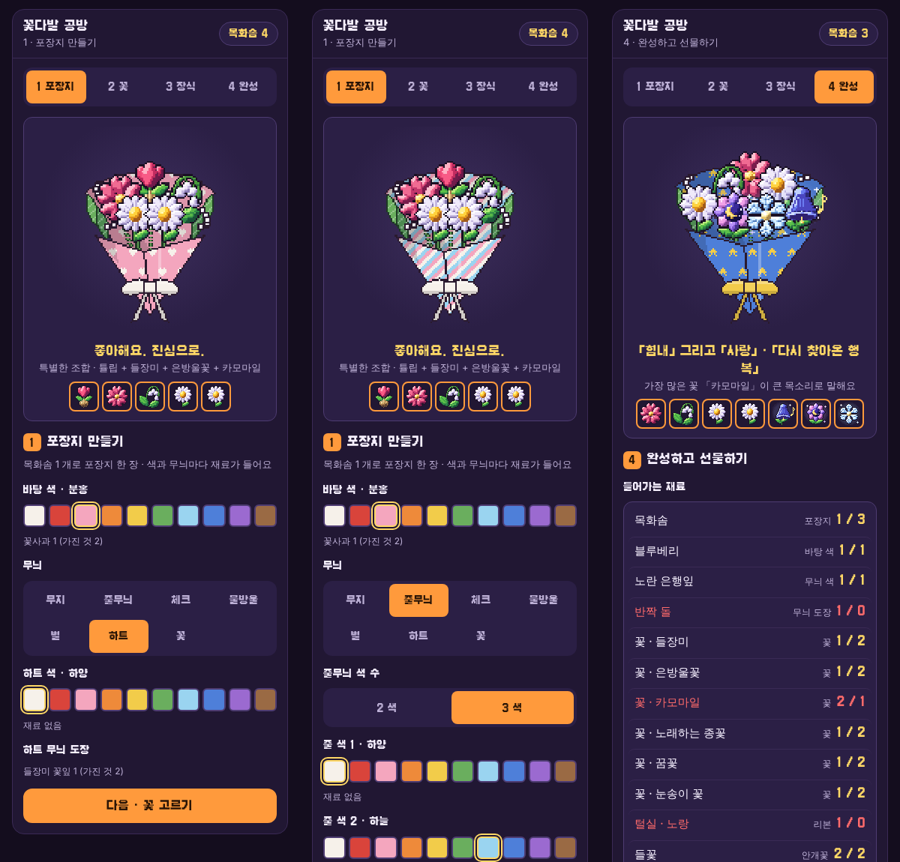
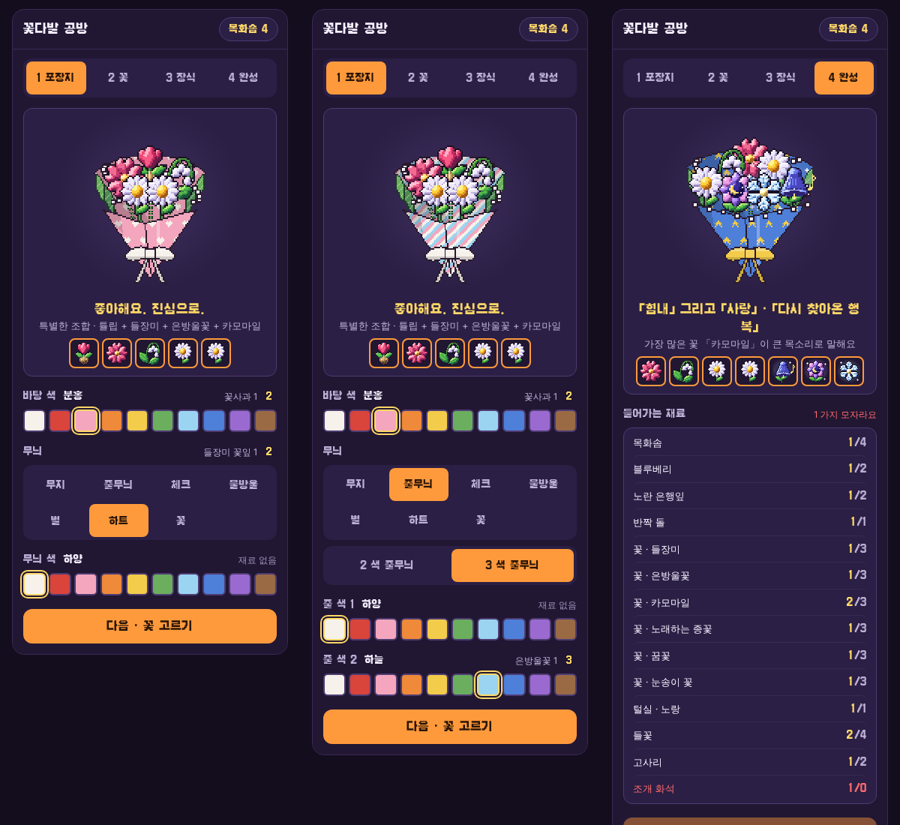
꽃다발 시안: 화면 정리 (겹친 제목 빼기 · 재료 한 줄 · 꽃 칸 단순화 · 아래 고정 버튼)
Claude-Session: https://claude.ai/code/session_01HhJ2NoNCjk5kaA3GWL7UDs

diff --git a/tools/bouquet_mock/bouquet_play.html b/tools/bouquet_mock/bouquet_play.html
@@ -72,6 +72,34 @@ body{margin:0;background:var(--bg);color:var(--text);font-family:var(--f-body);f
 #react b{display:block;font-family:var(--f-pxb);font-weight:400;color:var(--gold);margin-bottom:2px}
 #react p{margin:0;line-height:1.6;min-width:0;font-size:16px}
 #react .hearts{color:var(--pink);font-size:var(--fs-s);margin-top:4px;font-family:var(--f-pxb)}
+.grp{display:flex;flex-direction:column;gap:8px}
+.row{display:flex;justify-content:space-between;align-items:baseline;gap:8px}
+.row .lab{margin:0;font-family:var(--f-pxb);font-size:var(--fs-s);color:var(--sub)}
+.row .lab b{font-weight:400;color:var(--text);margin-left:4px}
+.cost{font-size:12px;color:var(--sub);white-space:nowrap;font-family:var(--f-body)}
+.cost i{font-style:normal;margin-left:6px;padding:1px 6px;border-radius:8px;background:var(--panel);color:var(--gold);font-family:var(--f-pxb)}
+.cost.lack,.cost.lack i{color:var(--warn)}
+.cost.free{opacity:.8}
+.seg.g2{display:grid;grid-template-columns:1fr 1fr}.seg.g3{display:grid;grid-template-columns:repeat(3,1fr)}
+.fgrid{grid-template-columns:repeat(5,1fr)!important;gap:4px!important}
+.fl{min-height:0!important;padding:4px 2px 5px!important;gap:0!important;font-size:11px!important;line-height:1.25}
+.fl span{max-width:100%;overflow:hidden;text-overflow:ellipsis;white-space:nowrap}
+.fl i{position:absolute;right:3px;top:2px;font-style:normal;font-family:var(--f-pxb);font-size:10px;color:var(--gold)}
+.fl.on{border:2px solid var(--accent);background:var(--line)}
+.dgrid{grid-template-columns:repeat(3,1fr)!important;gap:4px!important}
+.chipb{min-height:0!important;padding:8px!important;gap:3px!important;align-items:flex-start}
+.chipb span{font-family:var(--f-pxb)}
+.chipb .cost i{display:none}
+.need{gap:0!important;padding:2px 12px!important;display:block!important}
+.need li{display:flex!important;justify-content:space-between;gap:12px;padding:7px 0!important;border-top:0!important;font-size:var(--fs-s)}.need li + li{border-top:1px solid var(--line)!important}
+.need li b{font-family:var(--f-pxb);font-weight:400;color:var(--gold)}
+.need li b i{font-style:normal;color:var(--sub);margin-left:2px}
+.need li.lack b,.need li.lack b i{color:var(--warn)}
+.foot{padding:0 14px 14px;display:flex;flex-direction:column;gap:2px;position:sticky;bottom:0;background:linear-gradient(transparent,var(--panel) 30%)}
+.foot .next{width:100%}
+.panel{gap:16px!important}
+#stagebox{padding:10px!important;gap:6px!important}
+#cv{max-width:240px!important}
 input#card{width:100%;border:1px solid var(--line2);background:var(--panel2);color:var(--text);border-radius:10px;padding:10px;font:var(--fs) var(--f-body)}
 button:focus-visible,input:focus-visible{outline:2px solid var(--gold);outline-offset:2px}
 .hint{font-size:var(--fs-s);color:var(--sub);margin:0;text-align:center}
@@ -79,7 +107,7 @@ button:focus-visible,input:focus-visible{outline:2px solid var(--gold);outline-o
 
 
 <div id="app">
-  <div class="shead"><div class="title"><b>꽃다발 공방</b><span id="sub">포장지를 물들이고, 꽃을 골라 꽃말을 엮어요</span></div><span class="stat" id="stat"></span></div>
+  <div class="shead"><div class="title"><b>꽃다발 공방</b></div><span class="stat" id="stat"></span></div>
   <nav class="tabs" id="tabs"><button data-t="wrap" class="on">1 포장지</button><button data-t="flower">2 꽃</button><button data-t="deco">3 장식</button><button data-t="give">4 완성</button></nav>
   <div class="body">
     <section id="stagebox">
@@ -89,6 +117,7 @@ button:focus-visible,input:focus-visible{outline:2px solid var(--gold);outline-o
     </section>
     <section class="panel" id="panel"></section>
   </div>
+  <div class="foot"><button class="next" id="nextbtn"></button><button class="ghost" id="refill" data-refill="1" hidden>시안용 · 재료 다시 채우기</button></div>
 </div>
 
 <script>
@@ -278,49 +307,45 @@ function needs(){
   return out;
 }
 const short = () => Object.entries(needs()).filter(([k, v]) => (INV[k] || 0) < v.n);
-const costTag = (k, n = 1) => k ? `<small class="${(INV[k] || 0) < n ? 'lack' : ''}">${k} ${n} (가진 것 ${INV[k] || 0})</small>` : '<small>재료 없음</small>';
-const swatches = (attr, cur, opts = {}) => `<div class="sw">${COL.map(c => `<button data-${attr}="${c.id}" class="${cur === c.id ? 'on' : ''}" style="background:${c.hex}" aria-label="${c.n}" title="${c.n}${c.dye ? ' · ' + c.dye : ''}"></button>`).join('')}</div>`;
+const costTag = (k, n = 1) => k ? `<span class="cost ${(INV[k] || 0) < n ? 'lack' : ''}">${k} ${n}<i>${INV[k] || 0}</i></span>` : '<span class="cost free">재료 없음</span>';
+const row = (label, cost) => `<div class="row"><span class="lab">${label}</span>${cost || ''}</div>`;
+const swatches = (attr, cur) => `<div class="sw">${COL.map(c => `<button data-${attr}="${c.id}" class="${cur === c.id ? 'on' : ''}" style="background:${c.hex}" aria-label="${c.n}" title="${c.n}"></button>`).join('')}</div>`;
 function panel(){
   const P = document.getElementById('panel'), W = S.wrap, PT = PB[W.pat], cnt = id => S.slots.filter(x => x === id).length;
+  let html = '', next = null;
   if (S.tab === 'wrap'){
     const extraN = PT.extra ? (PT.multi ? W.n - 1 : 1) : 0;
-    P.innerHTML = `<div class="step"><b>1</b>포장지 만들기 <span>목화솜 1 개로 포장지 한 장 · 색과 무늬마다 재료가 들어요</span></div>
-      <div class="lab">바탕 색 · ${CB[W.base].n}</div>${swatches('base', W.base)}${costTag(CB[W.base].dye)}
-      <div class="lab">무늬</div><div class="seg g4">${PATTERN.map(p => `<button data-pat="${p.id}" class="${W.pat === p.id ? 'on' : ''}">${p.n}</button>`).join('')}</div>
-      ${PT.multi ? `<div class="lab">줄무늬 색 수</div><div class="seg">${[2, 3].map(k => `<button data-sn="${k}" class="${W.n === k ? 'on' : ''}">${k} 색</button>`).join('')}</div>` : ''}
-      ${extraN ? [...Array(extraN)].map((_, i) => `<div class="lab">${PT.multi ? `줄 색 ${i + 1}` : PT.id === 'check' ? '체크 색' : `${PT.n} 색`} · ${CB[W.cols[i]].n}</div>${swatches('pc' + i, W.cols[i])}${costTag(CB[W.cols[i]].dye)}`).join('') : ''}
-      ${PT.stamp ? `<div class="lab">${PT.n} 무늬 도장</div>${costTag(PT.stamp)}` : ''}
-      <button class="next" data-t="flower">다음 · 꽃 고르기</button>`;
+    html = `<div class="grp">${row(`바탕 색 <b>${CB[W.base].n}</b>`, costTag(CB[W.base].dye))}${swatches('base', W.base)}</div>
+      <div class="grp">${row('무늬', PT.stamp ? costTag(PT.stamp) : '')}<div class="seg g4">${PATTERN.map(p => `<button data-pat="${p.id}" class="${W.pat === p.id ? 'on' : ''}">${p.n}</button>`).join('')}</div>
+      ${PT.multi ? `<div class="seg g2">${[2, 3].map(k => `<button data-sn="${k}" class="${W.n === k ? 'on' : ''}">${k} 색 줄무늬</button>`).join('')}</div>` : ''}</div>
+      ${[...Array(extraN)].map((_, i) => `<div class="grp">${row(`${PT.multi ? `줄 색 ${i + 1}` : '무늬 색'} <b>${CB[W.cols[i]].n}</b>`, costTag(CB[W.cols[i]].dye))}${swatches('pc' + i, W.cols[i])}</div>`).join('')}`;
+    next = ['flower', '다음 · 꽃 고르기'];
   } else if (S.tab === 'flower'){
-    P.innerHTML = `<div class="step"><b>2</b>꽃 고르기 <span>꽃 한 송이 = 가방의 꽃 하나</span></div>
-      <div class="lab">꽃다발 크기</div><div class="seg">${SIZES.map(([n, l]) => `<button data-size="${n}" class="${S.size === n ? 'on' : ''}">${l} · ${n} 송이</button>`).join('')}</div>
-      <div class="lab">누르면 한 송이씩 들어가요 · 위쪽 칸을 누르면 빠져요</div>
-      <div class="fgrid">${FL.map(f => { const have = INV['꽃 · ' + f.n] || 0, used = cnt(f.id); return `<button class="fl ${used > have ? 'over' : ''}" data-f="${f.id}" ${have - used <= 0 && !used ? 'disabled' : ''}><canvas width="32" height="32" data-ic="${f.id}"></canvas>${f.n}<small>${f.w}</small><span class="n">${used ? `${used} / ` : ''}가진 것 ${have}</span></button>`; }).join('')}</div>
-      <button class="next" data-t="deco">다음 · 리본과 장식</button>`;
-    P.querySelectorAll('[data-ic]').forEach(c => { const q = c.getContext('2d'); q.imageSmoothingEnabled = false; q.drawImage(flowerIcon(FB[c.dataset.ic]), 0, 0); });
+    html = `<div class="seg g3">${SIZES.map(([n, l]) => `<button data-size="${n}" class="${S.size === n ? 'on' : ''}">${l.replace(' 꽃다발', '')} ${n} 송이</button>`).join('')}</div>
+      <div class="fgrid">${FL.map(f => { const have = INV['꽃 · ' + f.n] || 0, used = cnt(f.id); return `<button class="fl ${used ? 'on' : ''}" data-f="${f.id}" ${have - used <= 0 && !used ? 'disabled' : ''} title="${f.w}"><canvas width="32" height="32" data-ic="${f.id}"></canvas><span>${f.n}</span><i>${used ? used + '/' : ''}${have}</i></button>`; }).join('')}</div>`;
+    next = ['deco', '다음 · 리본과 장식'];
   } else if (S.tab === 'deco'){
-    P.innerHTML = `<div class="step"><b>3</b>리본과 장식 <span>리본은 털실 1 뭉치로 묶어요</span></div>
-      <div class="lab">리본 색 · ${CB[S.ribbon].n}</div>${swatches('rib', S.ribbon)}${costTag('털실 · ' + CB[S.ribbon].n)}
-      <div class="lab">장식 · 여러 개 골라도 돼요</div>
-      <div class="dgrid">${DECO.map(([k, l, cost]) => `<button class="chipb ${S.deco.has(k) ? 'on' : ''}" data-deco="${k}">${l}${cost.map(([m, n]) => costTag(m, n)).join('')}</button>`).join('')}</div>
-      ${S.deco.has('card') ? `<label class="lab" for="card">카드에 쓸 말 (20 자)</label><input id="card" maxlength="20" placeholder="예: 늘 고마워" value="${S.card.replace(/"/g, '&quot;')}">` : ''}
-      <button class="next" data-t="give">다음 · 완성하기</button>`;
-    const ci = P.querySelector('#card'); if (ci) ci.oninput = () => { S.card = ci.value; };
+    html = `<div class="grp">${row(`리본 <b>${CB[S.ribbon].n}</b>`, costTag('털실 · ' + CB[S.ribbon].n))}${swatches('rib', S.ribbon)}</div>
+      <div class="grp">${row('장식', '<span class="cost free">여러 개 고를 수 있어요</span>')}<div class="dgrid">${DECO.map(([k, l, cost]) => `<button class="chipb ${S.deco.has(k) ? 'on' : ''}" data-deco="${k}"><span>${l}</span>${cost.map(([m, n]) => costTag(m, n)).join('')}</button>`).join('')}</div></div>
+      ${S.deco.has('card') ? `<div class="grp">${row('카드에 쓸 말')}<input id="card" maxlength="20" placeholder="20 자까지" value="${S.card.replace(/"/g, '&quot;')}"></div>` : ''}`;
+    next = ['give', '다음 · 완성하기'];
   } else {
     const N = needs(), sh = short();
-    P.innerHTML = `<div class="step"><b>4</b>완성하고 선물하기</div>
-      <div class="lab">들어가는 재료</div>
-      <ul class="need">${Object.entries(N).map(([k, v]) => `<li class="${(INV[k] || 0) < v.n ? 'lack' : ''}"><span>${k}</span><span class="w">${v.why.join(' · ')}</span><span class="num">${v.n} / ${INV[k] || 0}</span></li>`).join('')}</ul>
-      ${S.made ? `<p class="ok">꽃다발 완성. 누구에게 줄까요</p><div class="npcs">${NPCS.map(n => `<button class="npc" data-npc="${n.id}"><canvas width="64" height="64" data-row="${n.row}"></canvas>${n.n}</button>`).join('')}</div>`
-        : `<button class="next big" data-make="1" ${sh.length || !S.slots.length ? 'disabled' : ''}>${!S.slots.length ? '꽃을 먼저 골라 주세요' : sh.length ? `재료가 모자라요 · ${sh.map(([k]) => k).slice(0, 2).join(', ')}${sh.length > 2 ? ' 외' : ''}` : '꽃다발 만들기'}</button>`}
-      <div id="react"><canvas width="64" height="64" id="rcv"></canvas><div><b id="rn"></b><p id="rt"></p><div class="hearts" id="rh"></div></div></div>
-      <button class="ghost" data-refill="1">시안용 · 가방 재료 다시 채우기</button>`;
-    const draw1 = () => P.querySelectorAll('[data-row]').forEach(c => { const q = c.getContext('2d'); q.imageSmoothingEnabled = false; q.clearRect(0, 0, 64, 64); q.drawImage(SHEET, 0, +c.dataset.row * 64, 64, 64, 0, 0, 64, 64); });
-    if (SHEET.complete) draw1(); else SHEET.onload = draw1;
+    html = S.made ? `<div class="grp">${row('누구에게 줄까요')}<div class="npcs">${NPCS.map(n => `<button class="npc" data-npc="${n.id}"><canvas width="64" height="64" data-row="${n.row}"></canvas>${n.n}</button>`).join('')}</div></div>`
+      : `<div class="grp">${row('들어가는 재료', `<span class="cost ${sh.length ? 'lack' : 'free'}">${sh.length ? `${sh.length} 가지 모자라요` : '다 있어요'}</span>`)}
+        <ul class="need">${Object.entries(N).map(([k, v]) => `<li class="${(INV[k] || 0) < v.n ? 'lack' : ''}"><span>${k}</span><b>${v.n}<i>/${INV[k] || 0}</i></b></li>`).join('')}</ul></div>`;
+    html += `<div id="react"><canvas width="64" height="64" id="rcv"></canvas><div><b id="rn"></b><p id="rt"></p><div class="hearts" id="rh"></div></div></div>`;
+    next = S.made ? null : ['make', !S.slots.length ? '꽃을 먼저 골라 주세요' : sh.length ? '재료가 모자라요' : '꽃다발 만들기', !S.slots.length || sh.length];
   }
+  P.innerHTML = html;
+  P.querySelectorAll('[data-ic]').forEach(c => { const q = c.getContext('2d'); q.imageSmoothingEnabled = false; q.drawImage(flowerIcon(FB[c.dataset.ic]), 0, 0); });
+  const draw1 = () => P.querySelectorAll('[data-row]').forEach(c => { const q = c.getContext('2d'); q.imageSmoothingEnabled = false; q.clearRect(0, 0, 64, 64); q.drawImage(SHEET, 0, +c.dataset.row * 64, 64, 64, 0, 0, 64, 64); });
+  if (SHEET.complete) draw1(); else SHEET.onload = draw1;
+  const nb = document.getElementById('nextbtn'), rf = document.getElementById('refill');
+  if (next){ nb.hidden = false; nb.textContent = next[1]; nb.disabled = !!next[2]; nb.dataset.go = next[0]; } else nb.hidden = true;
+  rf.hidden = S.tab !== 'give';
   document.querySelectorAll('#tabs button').forEach(x => x.classList.toggle('on', x.dataset.t === S.tab));
   document.getElementById('stat').textContent = `목화솜 ${INV['목화솜'] || 0}`;
-  document.getElementById('sub').textContent = { wrap: '1 · 포장지 만들기', flower: '2 · 꽃 고르기', deco: '3 · 리본과 장식', give: '4 · 완성하고 선물하기' }[S.tab];
 }
 function give(id){
   const n = NPCS.find(x => x.id === id); if (!S.made) return;
@@ -338,7 +363,8 @@ function give(id){
 function refresh(){ renderSlots(); panel(); draw(); }
 document.addEventListener('click', e => {
   const b = e.target.closest('button'); if (!b || b.disabled) return; const d = b.dataset, W = S.wrap;
-  if (d.t){ S.tab = d.t; panel(); document.getElementById('app').scrollIntoView({ block: 'start' }); return; }
+  if (d.go){ if (d.go === 'make'){ if (short().length) return; Object.entries(needs()).forEach(([k, v]) => INV[k] -= v.n); S.made = true; return panel(); } S.tab = d.go; panel(); document.getElementById('app').scrollIntoView({ block: 'start' }); return; }
+  if (d.t){ S.tab = d.t; panel(); return; }
   if (S.made && (d.base || d.pat || d.sn || d.pc0 || d.pc1 || d.size || d.f || d.rib || d.deco)) S.made = false;
   if (d.base){ W.base = d.base; return refresh(); }
   if (d.pat){ W.pat = d.pat; return refresh(); }

diff --git a/tools/bouquet_mock/bouquet_play.tpl.html b/tools/bouquet_mock/bouquet_play.tpl.html
@@ -72,6 +72,34 @@ body{margin:0;background:var(--bg);color:var(--text);font-family:var(--f-body);f
 #react b{display:block;font-family:var(--f-pxb);font-weight:400;color:var(--gold);margin-bottom:2px}
 #react p{margin:0;line-height:1.6;min-width:0;font-size:16px}
 #react .hearts{color:var(--pink);font-size:var(--fs-s);margin-top:4px;font-family:var(--f-pxb)}
+.grp{display:flex;flex-direction:column;gap:8px}
+.row{display:flex;justify-content:space-between;align-items:baseline;gap:8px}
+.row .lab{margin:0;font-family:var(--f-pxb);font-size:var(--fs-s);color:var(--sub)}
+.row .lab b{font-weight:400;color:var(--text);margin-left:4px}
+.cost{font-size:12px;color:var(--sub);white-space:nowrap;font-family:var(--f-body)}
+.cost i{font-style:normal;margin-left:6px;padding:1px 6px;border-radius:8px;background:var(--panel);color:var(--gold);font-family:var(--f-pxb)}
+.cost.lack,.cost.lack i{color:var(--warn)}
+.cost.free{opacity:.8}
+.seg.g2{display:grid;grid-template-columns:1fr 1fr}.seg.g3{display:grid;grid-template-columns:repeat(3,1fr)}
+.fgrid{grid-template-columns:repeat(5,1fr)!important;gap:4px!important}
+.fl{min-height:0!important;padding:4px 2px 5px!important;gap:0!important;font-size:11px!important;line-height:1.25}
+.fl span{max-width:100%;overflow:hidden;text-overflow:ellipsis;white-space:nowrap}
+.fl i{position:absolute;right:3px;top:2px;font-style:normal;font-family:var(--f-pxb);font-size:10px;color:var(--gold)}
+.fl.on{border:2px solid var(--accent);background:var(--line)}
+.dgrid{grid-template-columns:repeat(3,1fr)!important;gap:4px!important}
+.chipb{min-height:0!important;padding:8px!important;gap:3px!important;align-items:flex-start}
+.chipb span{font-family:var(--f-pxb)}
+.chipb .cost i{display:none}
+.need{gap:0!important;padding:2px 12px!important;display:block!important}
+.need li{display:flex!important;justify-content:space-between;gap:12px;padding:7px 0!important;border-top:0!important;font-size:var(--fs-s)}.need li + li{border-top:1px solid var(--line)!important}
+.need li b{font-family:var(--f-pxb);font-weight:400;color:var(--gold)}
+.need li b i{font-style:normal;color:var(--sub);margin-left:2px}
+.need li.lack b,.need li.lack b i{color:var(--warn)}
+.foot{padding:0 14px 14px;display:flex;flex-direction:column;gap:2px;position:sticky;bottom:0;background:linear-gradient(transparent,var(--panel) 30%)}
+.foot .next{width:100%}
+.panel{gap:16px!important}
+#stagebox{padding:10px!important;gap:6px!important}
+#cv{max-width:240px!important}
 input#card{width:100%;border:1px solid var(--line2);background:var(--panel2);color:var(--text);border-radius:10px;padding:10px;font:var(--fs) var(--f-body)}
 button:focus-visible,input:focus-visible{outline:2px solid var(--gold);outline-offset:2px}
 .hint{font-size:var(--fs-s);color:var(--sub);margin:0;text-align:center}
@@ -79,7 +107,7 @@ button:focus-visible,input:focus-visible{outline:2px solid var(--gold);outline-o
 
 
 <div id="app">
-  <div class="shead"><div class="title"><b>꽃다발 공방</b><span id="sub">포장지를 물들이고, 꽃을 골라 꽃말을 엮어요</span></div><span class="stat" id="stat"></span></div>
+  <div class="shead"><div class="title"><b>꽃다발 공방</b></div><span class="stat" id="stat"></span></div>
   <nav class="tabs" id="tabs"><button data-t="wrap" class="on">1 포장지</button><button data-t="flower">2 꽃</button><button data-t="deco">3 장식</button><button data-t="give">4 완성</button></nav>
   <div class="body">
     <section id="stagebox">
@@ -89,6 +117,7 @@ button:focus-visible,input:focus-visible{outline:2px solid var(--gold);outline-o
     </section>
     <section class="panel" id="panel"></section>
   </div>
+  <div class="foot"><button class="next" id="nextbtn"></button><button class="ghost" id="refill" data-refill="1" hidden>시안용 · 재료 다시 채우기</button></div>
 </div>
 
 <script>
@@ -278,49 +307,45 @@ function needs(){
   return out;
 }
 const short = () => Object.entries(needs()).filter(([k, v]) => (INV[k] || 0) < v.n);
-const costTag = (k, n = 1) => k ? `<small class="${(INV[k] || 0) < n ? 'lack' : ''}">${k} ${n} (가진 것 ${INV[k] || 0})</small>` : '<small>재료 없음</small>';
-const swatches = (attr, cur, opts = {}) => `<div class="sw">${COL.map(c => `<button data-${attr}="${c.id}" class="${cur === c.id ? 'on' : ''}" style="background:${c.hex}" aria-label="${c.n}" title="${c.n}${c.dye ? ' · ' + c.dye : ''}"></button>`).join('')}</div>`;
+const costTag = (k, n = 1) => k ? `<span class="cost ${(INV[k] || 0) < n ? 'lack' : ''}">${k} ${n}<i>${INV[k] || 0}</i></span>` : '<span class="cost free">재료 없음</span>';
+const row = (label, cost) => `<div class="row"><span class="lab">${label}</span>${cost || ''}</div>`;
+const swatches = (attr, cur) => `<div class="sw">${COL.map(c => `<button data-${attr}="${c.id}" class="${cur === c.id ? 'on' : ''}" style="background:${c.hex}" aria-label="${c.n}" title="${c.n}"></button>`).join('')}</div>`;
 function panel(){
   const P = document.getElementById('panel'), W = S.wrap, PT = PB[W.pat], cnt = id => S.slots.filter(x => x === id).length;
+  let html = '', next = null;
   if (S.tab === 'wrap'){
     const extraN = PT.extra ? (PT.multi ? W.n - 1 : 1) : 0;
-    P.innerHTML = `<div class="step"><b>1</b>포장지 만들기 <span>목화솜 1 개로 포장지 한 장 · 색과 무늬마다 재료가 들어요</span></div>
-      <div class="lab">바탕 색 · ${CB[W.base].n}</div>${swatches('base', W.base)}${costTag(CB[W.base].dye)}
-      <div class="lab">무늬</div><div class="seg g4">${PATTERN.map(p => `<button data-pat="${p.id}" class="${W.pat === p.id ? 'on' : ''}">${p.n}</button>`).join('')}</div>
-      ${PT.multi ? `<div class="lab">줄무늬 색 수</div><div class="seg">${[2, 3].map(k => `<button data-sn="${k}" class="${W.n === k ? 'on' : ''}">${k} 색</button>`).join('')}</div>` : ''}
-      ${extraN ? [...Array(extraN)].map((_, i) => `<div class="lab">${PT.multi ? `줄 색 ${i + 1}` : PT.id === 'check' ? '체크 색' : `${PT.n} 색`} · ${CB[W.cols[i]].n}</div>${swatches('pc' + i, W.cols[i])}${costTag(CB[W.cols[i]].dye)}`).join('') : ''}
-      ${PT.stamp ? `<div class="lab">${PT.n} 무늬 도장</div>${costTag(PT.stamp)}` : ''}
-      <button class="next" data-t="flower">다음 · 꽃 고르기</button>`;
+    html = `<div class="grp">${row(`바탕 색 <b>${CB[W.base].n}</b>`, costTag(CB[W.base].dye))}${swatches('base', W.base)}</div>
+      <div class="grp">${row('무늬', PT.stamp ? costTag(PT.stamp) : '')}<div class="seg g4">${PATTERN.map(p => `<button data-pat="${p.id}" class="${W.pat === p.id ? 'on' : ''}">${p.n}</button>`).join('')}</div>
+      ${PT.multi ? `<div class="seg g2">${[2, 3].map(k => `<button data-sn="${k}" class="${W.n === k ? 'on' : ''}">${k} 색 줄무늬</button>`).join('')}</div>` : ''}</div>
+      ${[...Array(extraN)].map((_, i) => `<div class="grp">${row(`${PT.multi ? `줄 색 ${i + 1}` : '무늬 색'} <b>${CB[W.cols[i]].n}</b>`, costTag(CB[W.cols[i]].dye))}${swatches('pc' + i, W.cols[i])}</div>`).join('')}`;
+    next = ['flower', '다음 · 꽃 고르기'];
   } else if (S.tab === 'flower'){
-    P.innerHTML = `<div class="step"><b>2</b>꽃 고르기 <span>꽃 한 송이 = 가방의 꽃 하나</span></div>
-      <div class="lab">꽃다발 크기</div><div class="seg">${SIZES.map(([n, l]) => `<button data-size="${n}" class="${S.size === n ? 'on' : ''}">${l} · ${n} 송이</button>`).join('')}</div>
-      <div class="lab">누르면 한 송이씩 들어가요 · 위쪽 칸을 누르면 빠져요</div>
-      <div class="fgrid">${FL.map(f => { const have = INV['꽃 · ' + f.n] || 0, used = cnt(f.id); return `<button class="fl ${used > have ? 'over' : ''}" data-f="${f.id}" ${have - used <= 0 && !used ? 'disabled' : ''}><canvas width="32" height="32" data-ic="${f.id}"></canvas>${f.n}<small>${f.w}</small><span class="n">${used ? `${used} / ` : ''}가진 것 ${have}</span></button>`; }).join('')}</div>
-      <button class="next" data-t="deco">다음 · 리본과 장식</button>`;
-    P.querySelectorAll('[data-ic]').forEach(c => { const q = c.getContext('2d'); q.imageSmoothingEnabled = false; q.drawImage(flowerIcon(FB[c.dataset.ic]), 0, 0); });
+    html = `<div class="seg g3">${SIZES.map(([n, l]) => `<button data-size="${n}" class="${S.size === n ? 'on' : ''}">${l.replace(' 꽃다발', '')} ${n} 송이</button>`).join('')}</div>
+      <div class="fgrid">${FL.map(f => { const have = INV['꽃 · ' + f.n] || 0, used = cnt(f.id); return `<button class="fl ${used ? 'on' : ''}" data-f="${f.id}" ${have - used <= 0 && !used ? 'disabled' : ''} title="${f.w}"><canvas width="32" height="32" data-ic="${f.id}"></canvas><span>${f.n}</span><i>${used ? used + '/' : ''}${have}</i></button>`; }).join('')}</div>`;
+    next = ['deco', '다음 · 리본과 장식'];
   } else if (S.tab === 'deco'){
-    P.innerHTML = `<div class="step"><b>3</b>리본과 장식 <span>리본은 털실 1 뭉치로 묶어요</span></div>
-      <div class="lab">리본 색 · ${CB[S.ribbon].n}</div>${swatches('rib', S.ribbon)}${costTag('털실 · ' + CB[S.ribbon].n)}
-      <div class="lab">장식 · 여러 개 골라도 돼요</div>
-      <div class="dgrid">${DECO.map(([k, l, cost]) => `<button class="chipb ${S.deco.has(k) ? 'on' : ''}" data-deco="${k}">${l}${cost.map(([m, n]) => costTag(m, n)).join('')}</button>`).join('')}</div>
-      ${S.deco.has('card') ? `<label class="lab" for="card">카드에 쓸 말 (20 자)</label><input id="card" maxlength="20" placeholder="예: 늘 고마워" value="${S.card.replace(/"/g, '&quot;')}">` : ''}
-      <button class="next" data-t="give">다음 · 완성하기</button>`;
-    const ci = P.querySelector('#card'); if (ci) ci.oninput = () => { S.card = ci.value; };
+    html = `<div class="grp">${row(`리본 <b>${CB[S.ribbon].n}</b>`, costTag('털실 · ' + CB[S.ribbon].n))}${swatches('rib', S.ribbon)}</div>
+      <div class="grp">${row('장식', '<span class="cost free">여러 개 고를 수 있어요</span>')}<div class="dgrid">${DECO.map(([k, l, cost]) => `<button class="chipb ${S.deco.has(k) ? 'on' : ''}" data-deco="${k}"><span>${l}</span>${cost.map(([m, n]) => costTag(m, n)).join('')}</button>`).join('')}</div></div>
+      ${S.deco.has('card') ? `<div class="grp">${row('카드에 쓸 말')}<input id="card" maxlength="20" placeholder="20 자까지" value="${S.card.replace(/"/g, '&quot;')}"></div>` : ''}`;
+    next = ['give', '다음 · 완성하기'];
   } else {
     const N = needs(), sh = short();
-    P.innerHTML = `<div class="step"><b>4</b>완성하고 선물하기</div>
-      <div class="lab">들어가는 재료</div>
-      <ul class="need">${Object.entries(N).map(([k, v]) => `<li class="${(INV[k] || 0) < v.n ? 'lack' : ''}"><span>${k}</span><span class="w">${v.why.join(' · ')}</span><span class="num">${v.n} / ${INV[k] || 0}</span></li>`).join('')}</ul>
-      ${S.made ? `<p class="ok">꽃다발 완성. 누구에게 줄까요</p><div class="npcs">${NPCS.map(n => `<button class="npc" data-npc="${n.id}"><canvas width="64" height="64" data-row="${n.row}"></canvas>${n.n}</button>`).join('')}</div>`
-        : `<button class="next big" data-make="1" ${sh.length || !S.slots.length ? 'disabled' : ''}>${!S.slots.length ? '꽃을 먼저 골라 주세요' : sh.length ? `재료가 모자라요 · ${sh.map(([k]) => k).slice(0, 2).join(', ')}${sh.length > 2 ? ' 외' : ''}` : '꽃다발 만들기'}</button>`}
-      <div id="react"><canvas width="64" height="64" id="rcv"></canvas><div><b id="rn"></b><p id="rt"></p><div class="hearts" id="rh"></div></div></div>
-      <button class="ghost" data-refill="1">시안용 · 가방 재료 다시 채우기</button>`;
-    const draw1 = () => P.querySelectorAll('[data-row]').forEach(c => { const q = c.getContext('2d'); q.imageSmoothingEnabled = false; q.clearRect(0, 0, 64, 64); q.drawImage(SHEET, 0, +c.dataset.row * 64, 64, 64, 0, 0, 64, 64); });
-    if (SHEET.complete) draw1(); else SHEET.onload = draw1;
+    html = S.made ? `<div class="grp">${row('누구에게 줄까요')}<div class="npcs">${NPCS.map(n => `<button class="npc" data-npc="${n.id}"><canvas width="64" height="64" data-row="${n.row}"></canvas>${n.n}</button>`).join('')}</div></div>`
+      : `<div class="grp">${row('들어가는 재료', `<span class="cost ${sh.length ? 'lack' : 'free'}">${sh.length ? `${sh.length} 가지 모자라요` : '다 있어요'}</span>`)}
+        <ul class="need">${Object.entries(N).map(([k, v]) => `<li class="${(INV[k] || 0) < v.n ? 'lack' : ''}"><span>${k}</span><b>${v.n}<i>/${INV[k] || 0}</i></b></li>`).join('')}</ul></div>`;
+    html += `<div id="react"><canvas width="64" height="64" id="rcv"></canvas><div><b id="rn"></b><p id="rt"></p><div class="hearts" id="rh"></div></div></div>`;
+    next = S.made ? null : ['make', !S.slots.length ? '꽃을 먼저 골라 주세요' : sh.length ? '재료가 모자라요' : '꽃다발 만들기', !S.slots.length || sh.length];
   }
+  P.innerHTML = html;
+  P.querySelectorAll('[data-ic]').forEach(c => { const q = c.getContext('2d'); q.imageSmoothingEnabled = false; q.drawImage(flowerIcon(FB[c.dataset.ic]), 0, 0); });
+  const draw1 = () => P.querySelectorAll('[data-row]').forEach(c => { const q = c.getContext('2d'); q.imageSmoothingEnabled = false; q.clearRect(0, 0, 64, 64); q.drawImage(SHEET, 0, +c.dataset.row * 64, 64, 64, 0, 0, 64, 64); });
+  if (SHEET.complete) draw1(); else SHEET.onload = draw1;
+  const nb = document.getElementById('nextbtn'), rf = document.getElementById('refill');
+  if (next){ nb.hidden = false; nb.textContent = next[1]; nb.disabled = !!next[2]; nb.dataset.go = next[0]; } else nb.hidden = true;
+  rf.hidden = S.tab !== 'give';
   document.querySelectorAll('#tabs button').forEach(x => x.classList.toggle('on', x.dataset.t === S.tab));
   document.getElementById('stat').textContent = `목화솜 ${INV['목화솜'] || 0}`;
-  document.getElementById('sub').textContent = { wrap: '1 · 포장지 만들기', flower: '2 · 꽃 고르기', deco: '3 · 리본과 장식', give: '4 · 완성하고 선물하기' }[S.tab];
 }
 function give(id){
   const n = NPCS.find(x => x.id === id); if (!S.made) return;
@@ -338,7 +363,8 @@ function give(id){
 function refresh(){ renderSlots(); panel(); draw(); }
 document.addEventListener('click', e => {
   const b = e.target.closest('button'); if (!b || b.disabled) return; const d = b.dataset, W = S.wrap;
-  if (d.t){ S.tab = d.t; panel(); document.getElementById('app').scrollIntoView({ block: 'start' }); return; }
+  if (d.go){ if (d.go === 'make'){ if (short().length) return; Object.entries(needs()).forEach(([k, v]) => INV[k] -= v.n); S.made = true; return panel(); } S.tab = d.go; panel(); document.getElementById('app').scrollIntoView({ block: 'start' }); return; }
+  if (d.t){ S.tab = d.t; panel(); return; }
   if (S.made && (d.base || d.pat || d.sn || d.pc0 || d.pc1 || d.size || d.f || d.rib || d.deco)) S.made = false;
   if (d.base){ W.base = d.base; return refresh(); }
   if (d.pat){ W.pat = d.pat; return refresh(); }
